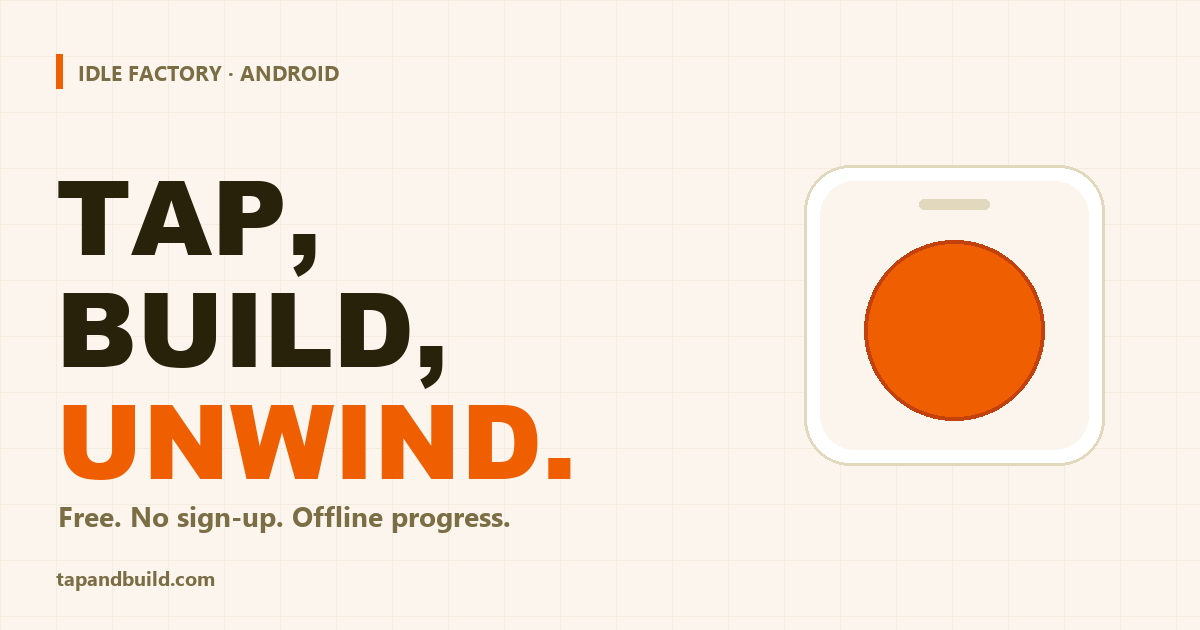
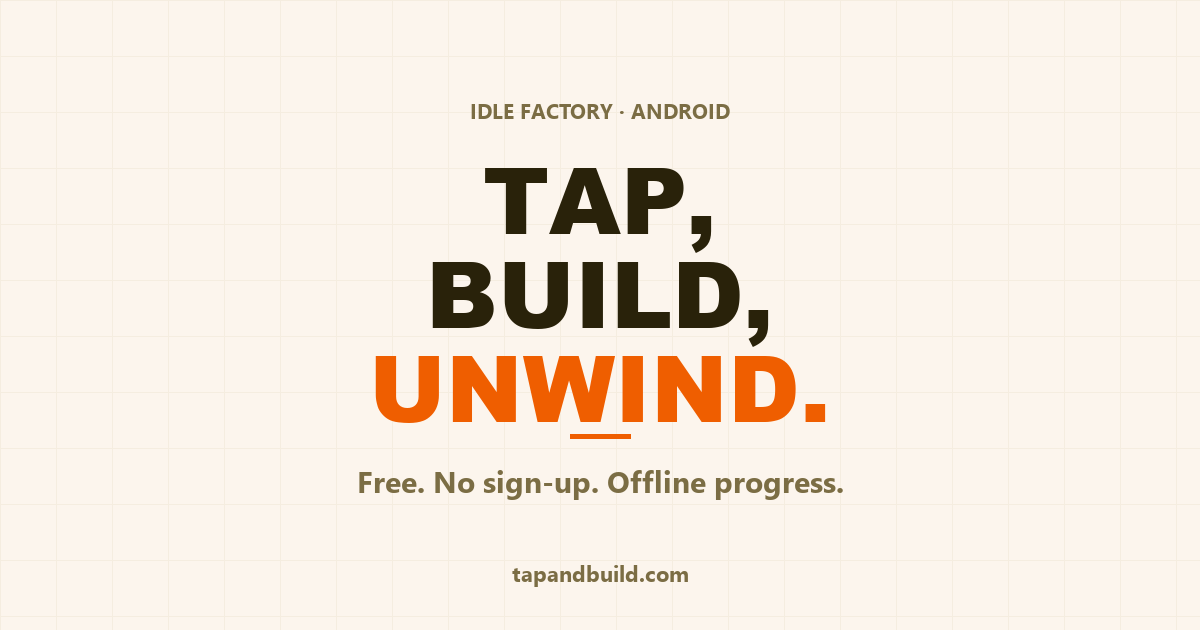
Arregla titulo de prensa en todas las paginas y rehace las OG centradas

diff --git a/scripts/make-og.py b/scripts/make-og.py
@@ -5,7 +5,10 @@ Genera las imágenes Open Graph (1200x630) del sitio.
 
 Salida: public/og/*.png. Se commitean: el build no las genera.
 
-Para una campaña nueva, agregá una entrada a CARDS y volvé a correrlo.
+Composición centrada a propósito: WhatsApp y otros clientes recortan la vista
+previa a cuadrado en algunos contextos, y un layout con texto a la izquierda y
+gráfico a la derecha se rompe con ese recorte. Todo lo importante vive dentro
+del cuadrado central de 630x630.
 """
 
 from pathlib import Path
@@ -17,9 +20,7 @@ CREAM = "#FCF5ED"
 INK = "#29220A"
 ORANGE = "#EF5E00"
 MUTED = "#7B6D44"
-WHITE = "#FFFFFF"
 LINE = "#EFE6D4"
-BORDER = "#E2D8BE"
 
 FONT_BLACK = r"C:\Windows\Fonts\ariblk.ttf"
 FONT_BOLD = r"C:\Windows\Fonts\segoeuib.ttf"
@@ -30,51 +31,42 @@ CARDS = [
     {
         "slug": "home-es",
         "kicker": "IDLE DE FÁBRICA · ANDROID",
-        "title": ("TOCÁ,", "CONSTRUÍ,"),
-        "accent": "RELAJATE.",
+        "title": ["TOCÁ,", "CONSTRUÍ,", "RELAJATE."],
         "sub": "Gratis. Sin registro. Progreso offline.",
-        "url": "tapandbuild.com/es",
+        "url": "tapandbuild.com",
     },
     {
         "slug": "home-en",
         "kicker": "IDLE FACTORY · ANDROID",
-        "title": ("TAP,", "BUILD,"),
-        "accent": "UNWIND.",
+        "title": ["TAP,", "BUILD,", "UNWIND."],
         "sub": "Free. No sign-up. Offline progress.",
         "url": "tapandbuild.com",
     },
     {
         "slug": "home-de",
         "kicker": "IDLE-FABRIK · ANDROID",
-        "title": ("TIPPEN.", "BAUEN."),
-        "accent": "ENTSPANNEN.",
+        "title": ["TIPPEN,", "BAUEN,", "ENTSPANNEN."],
         "sub": "Kostenlos. Ohne Anmeldung.",
         "url": "tapandbuild.com/de",
-        "size": 88,
     },
     {
         "slug": "home-ru",
         "kicker": "IDLE-ФАБРИКА · ANDROID",
-        "title": ("ТАПАЙ.", "СТРОЙ."),
-        "accent": "ОТДЫХАЙ.",
+        "title": ["ТАПАЙ,", "СТРОЙ,", "ОТДЫХАЙ."],
         "sub": "Бесплатно. Без регистрации.",
         "url": "tapandbuild.com/ru",
-        "size": 96,
     },
     {
         "slug": "home-pt",
         "kicker": "IDLE DE FÁBRICA · ANDROID",
-        "title": ("TOQUE.", "CONSTRUA."),
-        "accent": "RELAXE.",
+        "title": ["TOQUE,", "CONSTRUA,", "RELAXE."],
         "sub": "Grátis. Sem cadastro.",
         "url": "tapandbuild.com/pt",
-        "size": 96,
     },
     {
         "slug": "press",
         "kicker": "PRESS KIT",
-        "title": ("PRESS", "KIT"),
-        "accent": "",
+        "title": ["TAP & BUILD", "PRESS KIT"],
         "sub": "Fact sheet, contact and media assets.",
         "url": "tapandbuild.com/prensa",
     },
@@ -89,44 +81,49 @@ def base_canvas():
         gd.line([(x, 0), (x, H)], fill=LINE)
     for y in range(0, H, 56):
         gd.line([(0, y), (W, y)], fill=LINE)
-    return Image.blend(im, grid, 0.55)
+    return Image.blend(im, grid, 0.5)
 
 
-def draw_phone(d, x, y, size):
-    d.rounded_rectangle([x, y, x + size, y + size], radius=46, fill=WHITE, outline=BORDER, width=3)
-    d.rounded_rectangle([x + 16, y + 16, x + size - 16, y + size - 16], radius=34, fill=CREAM)
-    d.rounded_rectangle([x + size // 2 - 35, y + 34, x + size // 2 + 35, y + 44], radius=6, fill=BORDER)
-    r = int(size * 0.3)
-    cx, cy = x + size // 2, y + int(size * 0.55)
-    d.ellipse([cx - r, cy - r, cx + r, cy + r], fill=ORANGE, outline="#C2410C", width=4)
+def fit_font(path, text, max_width, start):
+    size = start
+    while size > 40:
+        font = ImageFont.truetype(path, size)
+        if font.getlength(text) <= max_width:
+            return font
+        size -= 4
+    return ImageFont.truetype(path, 40)
+
+
+def centered(d, text, font, y, fill):
+    width = d.textlength(text, font=font)
+    d.text(((W - width) / 2, y), text, font=font, fill=fill)
 
 
 def render(card):
     im = base_canvas()
     d = ImageDraw.Draw(im)
 
-    black = ImageFont.truetype(FONT_BLACK, card.get("size", 104))
-    small = ImageFont.truetype(FONT_BOLD, 21)
-    mid = ImageFont.truetype(FONT_BOLD, 28)
-    tiny = ImageFont.truetype(FONT_BOLD, 20)
+    kicker_font = ImageFont.truetype(FONT_BOLD, 21)
+    sub_font = ImageFont.truetype(FONT_BOLD, 30)
+    tiny = ImageFont.truetype(FONT_BOLD, 22)
 
-    d.rectangle([56, 54, 62, 88], fill=ORANGE)
-    d.text((78, 58), card["kicker"], font=small, fill=MUTED)
+    # Todo el bloque se mantiene dentro del cuadrado central (x 285..915).
+    centered(d, card["kicker"], kicker_font, 96, MUTED)
 
-    y = 140
-    for line in card["title"]:
-        d.text((56, y), line, font=black, fill=INK)
-        y += card.get("size", 104) + 8
-    if card["accent"]:
-        d.text((56, y), card["accent"], font=black, fill=ORANGE)
-        y += card.get("size", 104) + 14
+    lines = card["title"]
+    fonts = [fit_font(FONT_BLACK, line, 600, 92) for line in lines]
 
-    d.text((58, y + 14), card["sub"], font=mid, fill=MUTED)
+    y = 132
+    for index, (line, font) in enumerate(zip(lines, fonts)):
+        centered(d, line, font, y, ORANGE if index == len(lines) - 1 else INK)
+        y += font.size + 2
 
-    size = 300 if card["accent"] else 240
-    draw_phone(d, W - size - 96, (H - size) // 2, size)
+    rule_y = y + 20
+    d.rectangle([(W - 60) / 2, rule_y, (W + 60) / 2, rule_y + 4], fill=ORANGE)
 
-    d.text((56, H - 66), card["url"], font=tiny, fill=MUTED)
+    centered(d, card["sub"], sub_font, rule_y + 26, MUTED)
+    centered(d, card["url"], tiny, H - 72, MUTED)
+
     return im
 
 
